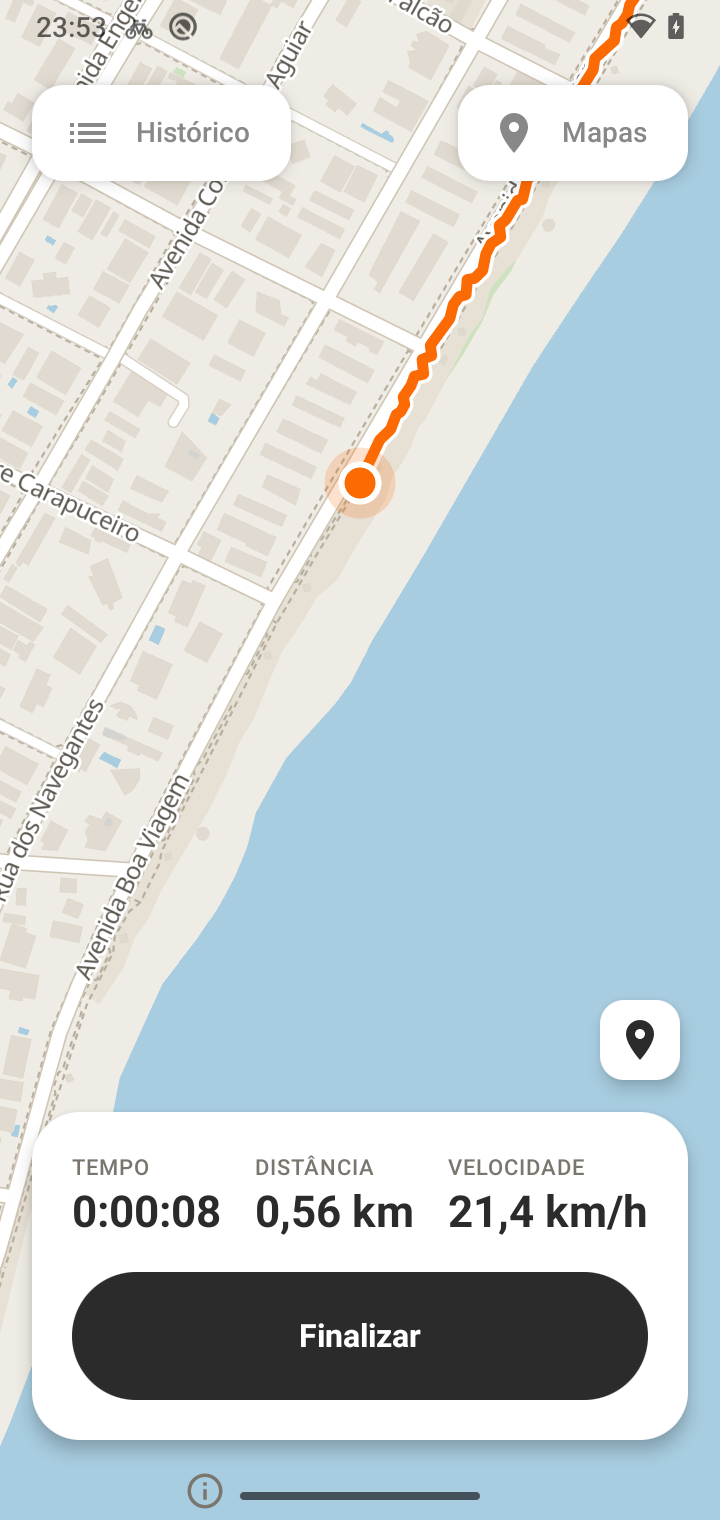
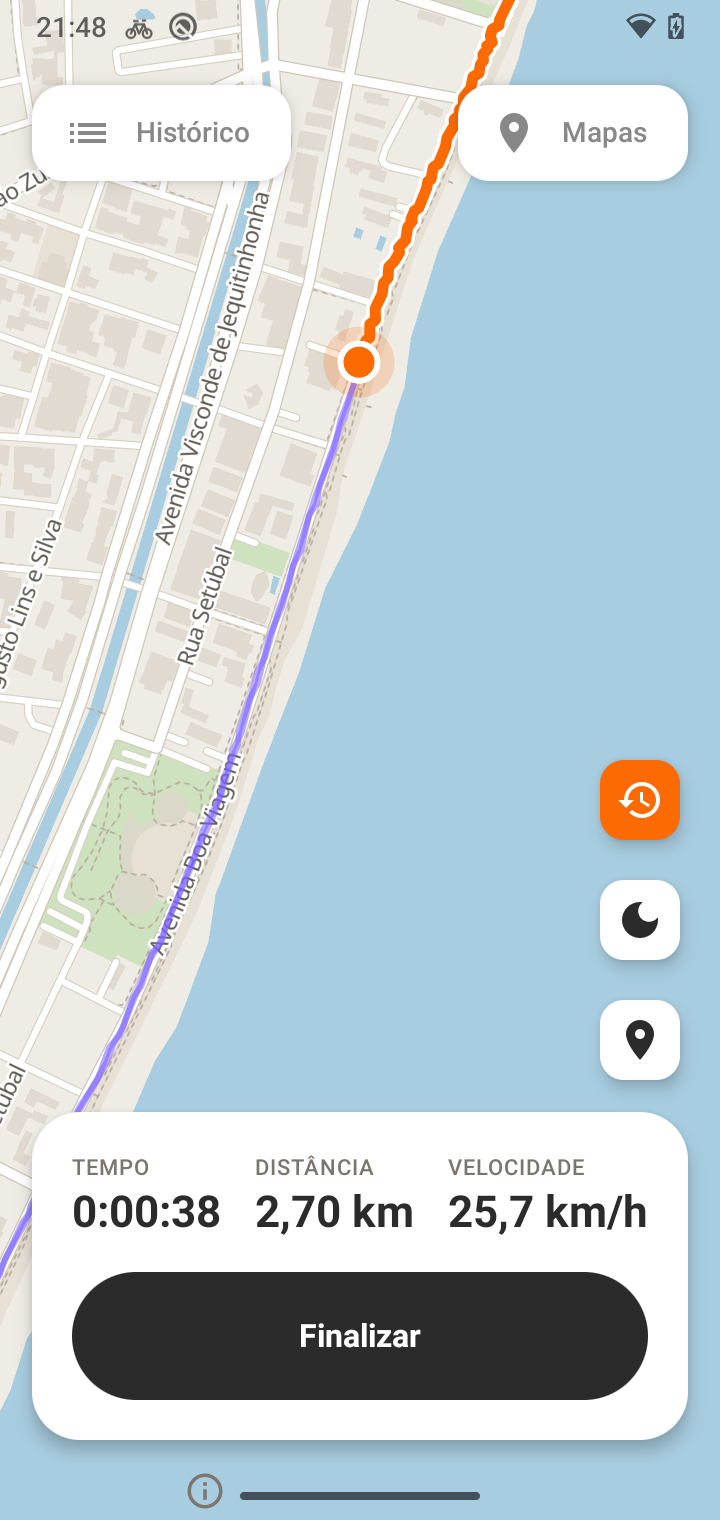
docs: update with new features

diff --git a/app/src/main/java/com/distrava/app/ui/map/HomeScreen.kt b/app/src/main/java/com/distrava/app/ui/map/HomeScreen.kt
@@ -465,7 +465,13 @@ private fun PanelCard(content: @Composable () -> Unit) {
 }
 
 @Composable
-private fun BigButton(text: String, onClick: () -> Unit, enabled: Boolean = true, color: Color? = null) {
+private fun BigButton(
+    text: String,
+    onClick: () -> Unit,
+    enabled: Boolean = true,
+    color: Color? = null,
+    contentColor: Color? = null,
+) {
     Button(
         onClick = onClick,
         enabled = enabled,
@@ -473,7 +479,11 @@ private fun BigButton(text: String, onClick: () -> Unit, enabled: Boolean = true
             .fillMaxWidth()
             .height(64.dp),
         shape = RoundedCornerShape(32.dp),
-        colors = if (color != null) ButtonDefaults.buttonColors(containerColor = color) else ButtonDefaults.buttonColors(),
+        colors = if (color != null) {
+            ButtonDefaults.buttonColors(containerColor = color, contentColor = contentColor ?: MaterialTheme.colorScheme.onPrimary)
+        } else {
+            ButtonDefaults.buttonColors()
+        },
     ) {
         Text(text, style = MaterialTheme.typography.titleMedium, fontWeight = FontWeight.Bold)
     }
@@ -597,7 +607,12 @@ private fun RecordingPanel(state: RecordingState.Recording, gnss: GnssInfo?, onF
             Metric(stringResource(R.string.label_speed), Format.speed(state.currentSpeedMps))
         }
         Spacer(Modifier.height(16.dp))
-        BigButton(stringResource(R.string.finish_ride), onFinish, color = MaterialTheme.colorScheme.onSurface)
+        BigButton(
+            stringResource(R.string.finish_ride),
+            onFinish,
+            color = MaterialTheme.colorScheme.onSurface,
+            contentColor = MaterialTheme.colorScheme.surface,
+        )
     }
 }
 

diff --git a/app/src/main/java/com/distrava/app/recording/RideSimulator.kt b/app/src/main/java/com/distrava/app/recording/RideSimulator.kt
@@ -37,11 +37,14 @@ object RideSimulator {
         val rnd = Random(seed)
         val out = mutableListOf<TrackPoint>()
         var t = startTime
+        var progress = 0.0 // 0..1 ao longo do percurso, para a altitude
         fun emit(lat: Double, lon: Double, speed: Float) {
             // ruído de ~3 m
             val jLat = (rnd.nextDouble() - 0.5) * 0.00005
             val jLon = (rnd.nextDouble() - 0.5) * 0.00005
-            out += TrackPoint(t, lat + jLat, lon + jLon, 5.0, speed, 4f + rnd.nextFloat() * 4f)
+            // Altitude fictícia com duas subidas suaves e ruído de ~1 m, para testar a altimetria.
+            val alt = 8.0 + 12.0 * sin(progress * Math.PI * 2).let { it * it } + (rnd.nextDouble() - 0.5) * 2.0
+            out += TrackPoint(t, lat + jLat, lon + jLon, alt, speed, 4f + rnd.nextFloat() * 4f)
             t += 1000
         }
         for (i in 0 until waypoints.size - 1) {
@@ -51,6 +54,7 @@ object RideSimulator {
             val steps = (dist / SPEED_MPS).toInt().coerceAtLeast(1)
             for (s in 0 until steps) {
                 val f = s.toDouble() / steps
+                progress = (i + f) / (waypoints.size - 1)
                 // leve variação de velocidade ao longo do trecho
                 val wobble = 1.0 + 0.15 * sin(f * 6.0) * cos(i.toDouble())
                 emit(lat0 + (lat1 - lat0) * f, lon0 + (lon1 - lon0) * f, (SPEED_MPS * wobble).toFloat())

diff --git a/README.md b/README.md
@@ -33,7 +33,11 @@ Most ride trackers depend on a phone signal and a cloud account. distrava is bui
 - 🗺 **Offline vector maps** (MapLibre + PMTiles) on the home screen, centered on your position.
 - ▶ **Start / finish a ride** with a foreground service, so recording continues with the screen off.
 - 📈 **Live route** drawn in orange on the map, with elapsed time, distance and current speed.
-- 📊 **Ride statistics**: total time, moving time, distance, average speed (moving time based) and max speed.
+- 📊 **Ride statistics**: total time, moving time, distance, average speed (moving time based) and max speed (GPS spikes filtered out).
+- ⛰ **Elevation**: total climb and descent, plus an elevation profile chart in the ride details.
+- 📍 **Points of interest**: long-press the map to mark water, a bike shop, a restroom, food or anything else. Tap a point to see or delete it.
+- 🟣 **Previous rides on the map**: a toggle draws your past routes as thin purple lines under the current route.
+- 🌙 **Dark mode**: one tap switches the whole app, map included, to a dark theme for night rides. It follows the system theme until you choose.
 - 🖼 **Summary image** (1080 × 1920, Stories format) with the route drawn over the offline map. Save it to the gallery or share it through the Android share sheet.
 - 🕘 **History** of rides, with a route thumbnail, details view and deletion.
 - 🧭 **Crash-safe recovery**: if the system kills the app mid-ride, you can resume or finish it when you reopen the app.
@@ -46,14 +50,28 @@ Most ride trackers depend on a phone signal and a cloud account. distrava is bui
 
 <table>
   <tr>
-    <td align="center"><img src="docs/screenshots/recording.png" width="220" alt="Recording a ride"/><br/><sub>Live recording</sub></td>
-    <td align="center"><img src="docs/screenshots/summary.png" width="220" alt="Ride summary with statistics and share image"/><br/><sub>Ride summary and share image</sub></td>
-    <td align="center"><img src="docs/screenshots/history.png" width="220" alt="Ride history"/><br/><sub>History</sub></td>
+    <td align="center"><img src="docs/screenshots/recording.png" width="220" alt="Recording a ride with a previous ride in purple"/><br/><sub>Live recording, previous ride in purple</sub></td>
+    <td align="center"><img src="docs/screenshots/summary.png" width="220" alt="Ride summary with statistics"/><br/><sub>Ride summary</sub></td>
+    <td align="center"><img src="docs/screenshots/elevation.png" width="220" alt="Elevation profile and share image"/><br/><sub>Elevation and share image</sub></td>
   </tr>
   <tr>
-    <td align="center" colspan="3"><img src="docs/screenshots/offline-maps.png" width="220" alt="Offline maps manager"/><br/><sub>Offline maps manager</sub></td>
+    <td align="center"><img src="docs/screenshots/recording-dark.png" width="220" alt="Recording a ride in dark mode"/><br/><sub>Dark mode</sub></td>
+    <td align="center"><img src="docs/screenshots/pois-dark.png" width="220" alt="Point of interest on the map"/><br/><sub>Point of interest</sub></td>
+    <td align="center"><img src="docs/screenshots/poi-dialog-dark.png" width="220" alt="New point of interest dialog"/><br/><sub>Marking a point</sub></td>
+  </tr>
+  <tr>
+    <td align="center"><img src="docs/screenshots/summary-dark.png" width="220" alt="Ride summary in dark mode"/><br/><sub>Summary, dark</sub></td>
+    <td align="center"><img src="docs/screenshots/history.png" width="220" alt="Ride history"/><br/><sub>History</sub></td>
+    <td align="center"><img src="docs/screenshots/history-dark.png" width="220" alt="Ride history in dark mode"/><br/><sub>History, dark</sub></td>
+  </tr>
+  <tr>
+    <td align="center"><img src="docs/screenshots/offline-maps.png" width="220" alt="Offline maps manager"/><br/><sub>Offline maps</sub></td>
+    <td align="center"><img src="docs/screenshots/offline-maps-dark.png" width="220" alt="Offline maps manager in dark mode"/><br/><sub>Offline maps, dark</sub></td>
+    <td></td>
   </tr>
 </table>
+
+<sub>Screenshots taken with the debug ride simulator on Av. Boa Viagem (Recife), with location permission denied, so they show no real position.</sub>
 
 </div>
 
@@ -73,7 +91,8 @@ Most ride trackers depend on a phone signal and a cloud account. distrava is bui
 | Moving time | sum of intervals where speed is above 1 km/h |
 | Distance | sum of distances between consecutive valid points (Haversine) |
 | Average speed | distance / moving time, so stops don't drag the average down |
-| Max speed | highest recorded speed, after noise filtering |
+| Max speed | 95th percentile of 5-second moving averages, skipping windows with GPS accuracy worse than 15 m |
+| Climb / descent | sum of rises and drops of the smoothed GPS altitude, counted only after a 3 m change |
 
 ## Tech stack
 
@@ -101,7 +120,7 @@ UI (Composables) --events--> Service / Repository --> Room
 
 - **Recording state** lives in a `StateFlow` (`Idle`, `Recording`, `Finishing`, `Finished`, `Discarded`). The service writes it and the UI observes it, so the result is not lost when the UI is recreated.
 - **Dependencies** are provided by a manual `AppContainer` created in `DistravaApp`. There is no DI framework, to keep the setup small.
-- **Pure logic** (`Geo`, `LocationFilter`, `StatsCalculator`, `RouteProjection`, `Format`) is plain Kotlin and covered by unit tests.
+- **Pure logic** (`Geo`, `LocationFilter`, `StatsCalculator`, `ElevationCalculator`, `RouteProjection`, `Format`) is plain Kotlin and covered by unit tests.
 
 ### Project structure
 
@@ -110,21 +129,22 @@ app/src/main/java/com/distrava/app/
 ├── DistravaApp.kt            # Application class and AppContainer
 ├── MainActivity.kt           # NavHost and debug simulator trigger
 ├── ui/
-│   ├── map/                  # home screen, live recording, MapLibre in Compose, location
-│   ├── history/              # ride list and detail screens
+│   ├── map/                  # home screen, live recording, MapLibre in Compose, points of interest
+│   ├── history/              # ride list, detail screen and elevation chart
 │   ├── offlinemaps/          # import and remove map regions
 │   └── theme/                # colors and theme
 ├── recording/
 │   ├── RecordingService.kt   # foreground location service
 │   ├── LocationFilter.kt     # drops bad GPS points
 │   ├── StatsCalculator.kt    # time, distance and speeds
+│   ├── Elevation.kt          # climb, descent and elevation profile
 │   └── RideSimulator.kt      # fake route for testing (debug)
 ├── data/
-│   ├── db/                   # Room entities, DAO and database
+│   ├── db/                   # Room entities, DAOs and database (rides, points, points of interest)
 │   └── ActivityRepository.kt # save, finish, image generation, delete
 ├── maps/
 │   ├── OfflineMapStore.kt    # .pmtiles files in filesDir/maps
-│   └── MapStyle.kt           # builds the MapLibre style JSON
+│   └── MapStyle.kt           # builds the MapLibre style JSON (light and dark)
 └── share/
     ├── SummaryImageRenderer.kt  # 1080 × 1920 PNG
     └── ImageExporter.kt         # MediaStore gallery and FileProvider sharing
@@ -196,16 +216,16 @@ If the file is missing, the build still works, but the APK ships without a map a
 Launch and follow the log from the terminal:
 
 ```sh
-adb shell am start -n com.distrava.app/.MainActivity
-adb logcat --pid=$(adb shell pidof com.distrava.app)
+adb shell am start -n com.distrava.app.debug/com.distrava.app.MainActivity
+adb logcat --pid=$(adb shell pidof com.distrava.app.debug)
 ```
 
 ### Testing without leaving home
 
-Debug builds include a ride simulator: a fake route along Av. Boa Viagem (Recife), out and back, running 10× faster than real time. Tap the test button below the Start button (labeled in Portuguese in the app), or launch the app with:
+Debug builds use the package `com.distrava.app.debug`, so they install next to the release app with separate data. They include a ride simulator: a fake route along Av. Boa Viagem (Recife), out and back, running 10× faster than real time. Tap the test button below the Start button (labeled in Portuguese in the app), or launch the app with:
 
 ```sh
-adb shell am start -n com.distrava.app/.MainActivity --ez simulate_ride true
+adb shell am start -n com.distrava.app.debug/com.distrava.app.MainActivity --ez simulate_ride true
 ```
 
 Real GPS needs a clear view of the sky. Indoors the signal is usually too weak, so test near a window or outside.

diff --git a/docs/technical.md b/docs/technical.md
@@ -98,6 +98,15 @@ A point is discarded if:
 - Max speed: 95th percentile of the 5-segment moving averages, ignoring windows with a point less accurate than 15 m (falls back to all windows if none qualify), to cut GPS spikes.
 - A ride with fewer than 2 points or less than 50 m is discarded (RF03).
 
+### Elevation (`ElevationCalculator`)
+
+Calculated when the detail screen opens, from the stored GPS altitude. Nothing extra is saved in the database, so older rides also get it.
+
+- Points without altitude are skipped, but still count toward the distance axis.
+- The altitude series is smoothed with a centered 5-point moving average.
+- Climb and descent are counted from extreme to extreme: a turn (top or valley) is only confirmed after the altitude moves back by 3 m. GPS noise of a few meters on flat ground gives 0 m.
+- The chart uses at most 300 samples. The block is hidden when the ride has fewer than 2 points with altitude.
+
 ### Persistence during recording
 
 - The ride is created in the database when it starts, with status `GRAVANDO` ("recording").
@@ -110,9 +119,11 @@ A point is discarded if:
 To test without leaving home:
 
 - The test button below Start on the home screen (labeled in Portuguese in the app), or
-- `adb shell am start -n com.distrava.app/.MainActivity --ez simulate_ride true`
+- `adb shell am start -n com.distrava.app.debug/com.distrava.app.MainActivity --ez simulate_ride true`
 
-The service starts with a fake out-and-back route on Av. Boa Viagem (geometry taken from the OSM tiles, ~23 km/h, 30 s stop at the turnaround), 10 times faster than real time. The button does not exist and the extra is ignored in release builds.
+Debug builds use the package `com.distrava.app.debug` (`applicationIdSuffix`), so they install next to the release app with separate data and never mix test rides with real ones.
+
+The service starts with a fake out-and-back route on Av. Boa Viagem (geometry taken from the OSM tiles, ~23 km/h, 30 s stop at the turnaround), 10 times faster than real time. The altitude is fictitious (two gentle hills of about 12 m plus 1 m of noise) so the elevation chart can be tested. The button does not exist and the extra is ignored in release builds.
 
 ### No GPS signal
 
@@ -127,6 +138,9 @@ The service starts with a fake out-and-back route on Av. Boa Viagem (geometry ta
 
 - `activities`: `id`, `startedAt`, `finishedAt`, `status` (`GRAVANDO` or `FINALIZADO`), `distanceMeters`, `totalTimeMs`, `movingTimeMs`, `avgSpeedMps`, `maxSpeedMps`, `imagePath`.
 - `track_points`: `id`, `activityId` (FK with `CASCADE`), `time`, `lat`, `lon`, `altitude`, `speedMps`, `accuracyM`.
+- `pois` (since database version 2): `id`, `lat`, `lon`, `name`, `kind` (`agua`, `oficina`, `banheiro`, `comida` or `outro`), `createdAt`.
+
+Version 1 to 2 is a Room `AutoMigration` (only the `pois` table is added).
 
 Internal units are always SI (meters, milliseconds, m/s). Conversion to km and km/h happens only in `Format`.
 
@@ -148,6 +162,19 @@ The public OpenStreetMap tile servers prohibit bulk downloads for offline use. T
 - "© OpenStreetMap" attribution shown on the map (info button).
 
 The Mata Sul + Recife area (`-35.95,-9.00,-34.80,-7.90`, zoom 0 to 15) is about 36 MB.
+
+### Dark map
+
+`MapStyle.build(…, dark = true)` swaps the colors of `layers.json` property by property, through a fixed palette (`DARK_PALETTE`). Label halos always become the dark background color, even where the light style uses white, because the same white is used for road fill. The screens pick the style from the current theme. The summary image keeps the light map on purpose.
+
+### Overlays on the map (`DistravaMap`)
+
+Drawn on top of the style, from bottom to top:
+
+1. Previous rides (`historyRoutes`): thin purple lines at 55% opacity, so they never cover the current route. Up to 200 finished rides, each reduced to 400 points. Turned on by the history button on the home screen (saved in preferences).
+2. Current route (orange, with a white casing) and start/end markers.
+3. Points of interest: circle colored by kind, with the name below. Long-press on the map creates one; tapping the circle opens it.
+4. Current position.
 
 ## 6. Summary image
 
@@ -208,6 +235,6 @@ Moto G7 Power (Android 10, Snapdragon 632, 3 GB), **release** build (no R8), Mat
 
 ## 10. Tests
 
-- **Unit tests (JVM):** `./gradlew testDebugUnitTest`. They cover statistics, GPS filter, route projection and formatting.
+- **Unit tests (JVM):** `./gradlew testDebugUnitTest`. They cover statistics, GPS filter, elevation, route projection and formatting.
 - **On the device:** simulator (section 3) + acceptance criteria checklist in [product.md](product.md).
 - **Field:** real ride with the screen off for at least 30 min to validate RNF02 and RNF03.

diff --git a/docs/product.md b/docs/product.md
@@ -27,12 +27,20 @@ Cyclists who want to record and share their rides in a simple way, including on 
 - Ride history.
 - Import/download an offline map of a region.
 
+### Version 0.2
+
+- Dark mode for the whole app, map included (RF09).
+- Elevation: climb, descent and profile chart (RF10).
+- Points of interest marked on the map (RF11).
+- Previous rides drawn on the map (RF12).
+- Max speed resistant to GPS spikes (RF04).
+
 ### Out of the MVP
 
 - Manual pause and resume (D10 in [decisions.md](decisions.md)).
 - GPX export.
 - Other sports (running, walking).
-- Speed and altitude charts.
+- Speed charts.
 - Accounts, cloud, social network, rankings, segments, Strava integration.
 - iOS and web.
 
@@ -135,6 +143,36 @@ Acceptance criteria:
 - If the system terminates the app during recording, when reopened the app offers to "Continue" or "Finish" the ride in progress.
 - No recorded point is lost.
 
+### RF09: Dark mode
+
+Acceptance criteria:
+- A button on the home screen switches between light and dark. Until the user chooses, the app follows the system theme.
+- In dark mode, the map, the cards, the buttons and the system bars are dark. All text stays readable.
+- The choice survives closing the app.
+- The summary image stays light, because it is meant for posting.
+
+### RF10: Elevation
+
+Acceptance criteria:
+- The ride detail shows climb, descent and an elevation chart by distance.
+- GPS altitude noise on flat ground does not produce climb.
+- Rides without altitude hide the block instead of showing zeros.
+
+### RF11: Points of interest
+
+Acceptance criteria:
+- A long-press on the map opens a dialog to pick a kind (water, bike shop, restroom, food, other) and an optional name.
+- Points appear on the map with the kind color and the name, also during recording.
+- Tapping a point shows it and allows deleting it.
+- Points are stored on the device only.
+
+### RF12: Previous rides on the map
+
+Acceptance criteria:
+- A button on the home screen shows or hides past routes.
+- Past routes are drawn under the current route and never hide it.
+- The choice survives closing the app.
+
 ## 4. Non-functional requirements
 
 | ID | Requirement |
@@ -169,9 +207,9 @@ Acceptance criteria:
 
 | Screen | Main content |
 |---|---|
-| Map | offline map, position dot, Start button, shortcuts to History and Maps |
+| Map | offline map, position dot, points of interest, Start button, shortcuts to History and Maps, buttons for previous rides, theme and recenter |
 | Recording | map with the route, timer, distance, current speed, Finish button |
 | Summary | statistics, image preview, Share and Save buttons |
 | History | list of rides |
-| Detail | map with the route, statistics, image, delete |
+| Detail | map with the route, statistics, elevation chart, image, delete |
 | Offline maps | installed regions, add, remove |
